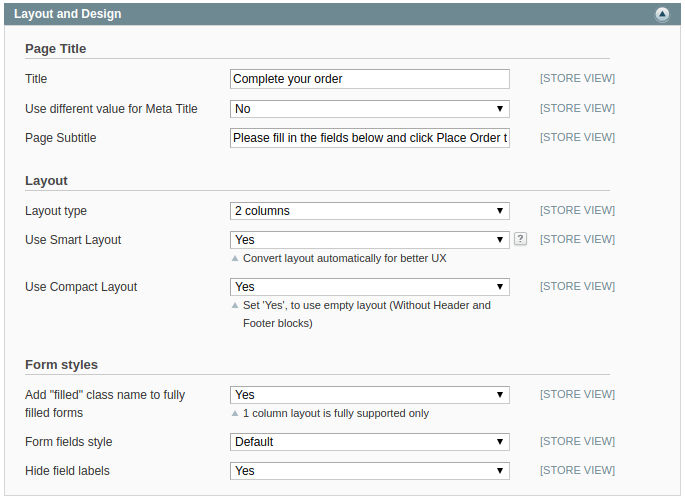
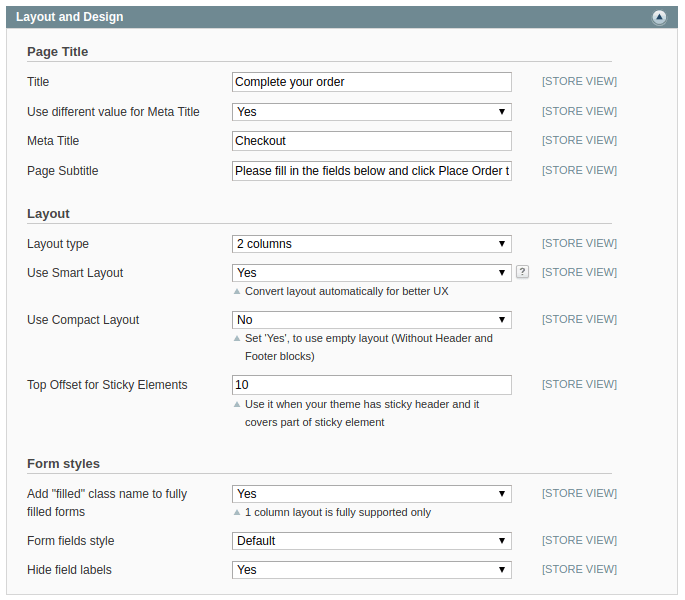
Firecheckout M1: layout config image updated

diff --git a/m1/extensions/firecheckout/configuration/firecheckout.md b/m1/extensions/firecheckout/configuration/firecheckout.md
@@ -68,6 +68,7 @@ Layout type         | 1 column | 1 column step-by-step layout
                     | 3 columns | Address in the first column, shipping and payment in the second and order summary in the third
 Use Smart Layout    | Yes/No | Automatically convert 2-columns layout into "2 columns with sticky order review" for customers with saved addresses
 Use Compact Layout  | Yes/No | Use empty layout withour header and footer blocks
+Top Offset for Sticky Elements  | Any numeric value | Use it when your theme has sticky header and it covers part of sticky element (Sticky Sidebar in 1-column mode or Sticky Order Review in smart layout and 2-columns with Sticky Review modes)
 **Form styles**     | |
 Add "filled" class name to fully filled forms | Yes/No | Add class name for the each of "Address", "Shipping", "Payment" and "Order Review" sections
 Form fields style   | Default | Use settings of "Address form fields sort order" config section
